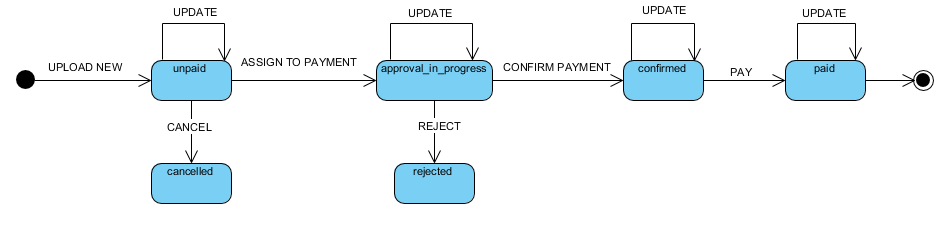
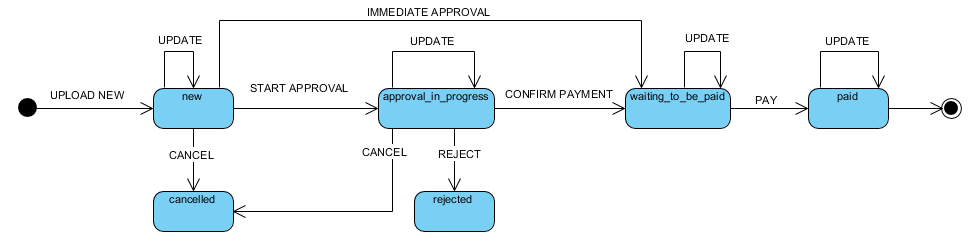
Updated Payable-management and state-machine diagram

Changed region(s): [[0.0, 0.0303, 1.0, 0.9394], [0.673, 0.0303, 0.7342, 0.0606]]

diff --git a/docs/g.payable-management.md b/docs/g.payable-management.md
@@ -13,11 +13,9 @@ This page explains the payables workflow and shows you how to implement it.
 
 ## How it works
 
-The following figure shows the payables workflow:
+Each payable in Monite goes through the following life cycle (in UML state-machine notation):
 
-TBD.
-
-
+![](../assets/images/payable-states.png)
 
 ## What you need
 
@@ -39,19 +37,33 @@ TBD: is this information storied in a database at the same time?
 
 To upload a payable: 
 
-1. Retrieve an access token for the entity with a call to:
-
-   `GET /partner api/api_users/v1/entities/{entity_id}/access`
+1. Using partner-level access token retrieve an access token for the entity with a call to `GET /partner api/api_users/v1/entities/{entity_id}/access`:
+```curl
+curl --location --request POST 'https://api.dev.monite.dev/partner-api/api_users/v1/entities/c0f6bbfb-0695-45a6-8cba-759ad35a051a/access' \
+--header 'x-api-key: au-your0000-part-ner0-leve-access0token'
+```
+The successful response code 200 OK contains the entity token:
+```json
+{
+    "token": "en-your0000-enti-ty00-leve-access0token",
+    "expiration_in": "2025-11-25T05:30:06.804869+00:00"
+}
+```
 
 2. Submit the payable with a call to:
    - For an entity:   `POST /partner-api/entities/v1/payables`
    - For an entity user: `POST /partner-api/entities_users/v1/payables`
-
+```curl
+curl --location --request POST 'https://api.dev.monite.dev/partner-api/entities/v1/payables' \
+--header 'Content-Type: multipart/form-data' \
+--header 'x-api-key: en-your0000-enti-ty00-leve-access0token' \
+--form 'file=@"BillExample.jpg"'
+```
    This call submits and analyses the payable uploaded. For example, the return parameters when you upload the [bill example](../assets/images/BillExample.jpg) are:
 
 ```json
 {
-    "id": "c38552fe-3a20-47cf-baff-646d7107cfd8",
+    "id": "aa314fdd-a763-4920-a8c8-6285fc1745c0",
     "entity_id": "b0ff50d0-cdea-42fd-9461-1b3799b65bcf",
     "status": "new",
     "source_of_payable_data": "ocr",
@@ -66,8 +78,8 @@ To upload a payable:
     "payable_origin": "upload",
     "was_created_by_external_user_name": null,
     "was_created_by_external_user_id": null,
-    "created_at": "2021-11-17T15:05:54.631508+00:00",
-    "updated_at": "2021-11-17T15:05:54.631524+00:00",
+    "created_at": "2021-11-25T05:10:35.211432+00:00",
+    "updated_at": "2021-11-25T05:10:35.211447+00:00",
     "file": {
         "file_type": "ocr-files",
         "name": "file",
@@ -84,24 +96,7 @@ To upload a payable:
 For more information about these fields, see [payable schema](c2NoOjI3NzgxOTUx-payable-response-schema).
 
 
-### 2. Edit a payable
-
-There are situations where information submitted in a payable needs to be added to or edited. Once a payable is uploaded, entity and entity users can easily update the information extracted from the payable and make changes before the payable in Monite is submitted.  Monite also enables entities and entity users too edit any section information which has been asked by the finance admin. 
-
-To edit an update a payable:
-
-1. Retrieve the payable from Monite:
-
-   TBD: which API do we call here?
-
-3. Update information in the payable downloaded from Monite.
-4. Publish changes to the payable:
-    - Entity: `PUT /partner-api/entities/v1/payables/{bill_id}`
-    - Entity user: `PUT /partner-api/entities_user/v1/payables/{bill_id}`
- 
-
-
-### 3. View all payables
+### 2. View all payables
 
 When entity and entity users have uploaded some payables, they can easily view all payables so far uploaded. To allow the right level of access to the authorized users, Monite allows certain type of entity users to view the uploads without allowing the unlimited control over the payable.
 
@@ -111,15 +106,19 @@ To view all payables, call:
 
 - entity: `GET /partner-api/entities/v1/payables`
 - entity user:`GET /partner-api/entities_users/v1/payables`
+```curl
+curl --location --request GET 'https://api.dev.monite.dev/partner-api/entities/v1/payables' \
+--header 'x-api-key: en-your0000-enti-ty00-leve-access0token'
+```
 
 Monite returns a paged series of all payables the entity has access to. For example: 
 ```json
 {
     "data": [
         {
-            "id": "f53f66ee-8ef8-4319-b70b-fcd8e0a6e07f",
+            "id": "aa314fdd-a763-4920-a8c8-6285fc1745c0",
             "entity_id": "b0ff50d0-cdea-42fd-9461-1b3799b65bcf",
-            "status": "unpaid",
+            "status": "new",
             "source_of_payable_data": "ocr",
             "currency": "EUR",
             "amount": 11900,
@@ -128,12 +127,12 @@ Monite returns a paged series of all payables the entity has access to. For exam
             "issued_at": "2021-11-11",
             "counterpart_bank_id": null,
             "counterpart_account_id": null,
-            "counterpart_name": "B'H From SupplierName",
+            "counterpart_name": "SupplierName",
             "payable_origin": "upload",
             "was_created_by_external_user_name": null,
             "was_created_by_external_user_id": null,
-            "created_at": "2021-11-11T13:56:07.599476+00:00",
-            "updated_at": "2021-11-11T13:56:07.599504+00:00"
+            "created_at": "2021-11-25T05:10:35.211432+00:00",
+            "updated_at": "2021-11-25T05:10:35.211447+00:00"
         }
     ],
     "prev_page": null,
@@ -142,24 +141,88 @@ Monite returns a paged series of all payables the entity has access to. For exam
 ```
 where data is an array of uploaded paybles and prev_page and next_page are [pagination tokens](y.filterings-sorting-pagination.md).
 
+### 3. Edit a payable
+
+There are situations where information submitted in a payable needs to be added to or edited. Once a payable is uploaded, entity and entity users can easily update the information extracted from the payable and make changes before the payable in Monite is submitted.  Monite also enables entities and entity users too edit any section information which has been asked by the finance admin. 
+
+To edit an update a payable:
+
+1. Retrieve the payable from Monite:
+
+- entity: `GET /partner-api/entities/v1/payables/{payable_id}`
+- entity user:`GET /partner-api/entities_users/v1/{payable_id}`
+```curl
+curl --location --request GET 'https://api.dev.monite.dev/partner-api/entities/v1/payables/<Payable Id>' \
+--header 'x-api-key: en-your0000-enti-ty00-leve-access0token'
+```
+The successful response code 200 OK contains the [payable attributes](c2NoOjI3NzgxOTUx-payable-response-schema)
+
+
+2. Update information in the payable downloaded from Monite.
+3. Publish changes to the payable :
+- Entity: `PUT /partner-api/entities/v1/payables/{payable_id}`
+- Entity user: `PUT /partner-api/entities_user/v1/payables/{payable_id}`
+
+For example, to update Bill amount and Due Date send the request:
+```curl
+curl --location --request PUT 'https://api.dev.monite.dev/partner-api/entities/v1/payables/<Payable Id>' \
+--header 'Content-Type: application/json' \
+--header 'x-api-key: en-your0000-enti-ty00-leve-access0token' \
+--data-raw '{
+    "amount": 238,
+    "due_date": "2021-12-12"
+}'
+```
+
 ### 4. Manage payables
 
-Upon successfully uploading a payable, the next step involves evaluation, assigning and management of these. With the robustness of our system, we provide a full set of capability for managing these
+After uploading, payables undergo 2 approval stages before finally clearing for payment:
+- approval_in_progress
+- waiting_to_be_paid 
 
-After uploading, payables undergo various approval stages before finally clearing for payment, the approval stages for a payment are: 
-
-![](../assets/images/payable-states.png)
-
+Depending on [payable status](#how-it-works) you may fulfil different operation with it:
 - *Delete an Upload* - monite enables financial team members to remove or delete a bill from the system. The entity can delete any specific upload. This marks the bill as archived in the system.
 
    - entity : `DELETE /partner-api/entities/v1/payables/{payable_id}`,
    - entity user: `DELETE/partner-api/entities_users/v1/payables/{payable_id}`
 
-- *Cancel Payable*: when the end users want to stop an upload, cancel by using `PUT /partner-api/entities/v1/payables/{payable_id}/cancel`API from their system.
-- *Assign To Payment*: Once the bill has been uploaded and recognized, its approval for a payments starts with the `PUT /partner-api/entities/v1/payables/{payable_id}/assign_to_payment`API
-- *Confirm Payment*: To finally approve the bill for payment call the `PUT /partner-api/entities/v1/payables/{payable_id}/confirm_payment_operation` API
-- *Reject Payable*: If the approving authority finds any mismatch or discrepancies in the upload, they can simply decline the bill by using the `PUT /partner-api/entities/v1/payables/{payable_id}/decline` API from their system.
-- *Pay*: As soon as the bill/upload has been approved and assigned for payment, you can change its status to "paid" by calling the `PUT /partner-api/entities/v1/payables/{payable_id}/pay` API.
+- *Cancel Payable*: when the end users want to stop an upload, cancel by using `PUT /partner-api/entities/v1/payables/{payable_id}/cancel`API from their system:
+```curl
+curl --location --request PUT 'https://api.dev.monite.dev/partner-api/entities/v1/payables/aa314fdd-a763-4920-a8c8-6285fc1745c0/cancel' \
+--header 'x-api-key: en-your0000-enti-ty00-leve-access0token'
+```
+Successful response 200 OK contains updated paybable's status:
+`"status": "cancelled"`
+- *Start Approval*: Once the bill has been uploaded and recognized, its approval for a payments starts with the `PUT /partner-api/entities/v1/payables/{payable_id}/assign_to_payment`API call:
+```curl
+curl --location --request PUT 'https://api.dev.monite.dev/partner-api/entities/v1/payables/aa314fdd-a763-4920-a8c8-6285fc1745c0/start_approve' \
+--header 'x-api-key: en-your0000-enti-ty00-leve-access0token'
+```
+Successful response 200 OK contains updated paybable's status:
+`"status": "approve_in_progress"`
+
+- *Confirm Payment*: To finally approve the bill for payment call the `PUT /partner-api/entities/v1/payables/{payable_id}/approve_payment_operation` API:
+```curl
+curl --location --request PUT 'https://api.dev.monite.dev/partner-api/entities/v1/payables/aa314fdd-a763-4920-a8c8-6285fc1745c0/approve_payment_operation' \
+--header 'x-api-key: en-your0000-enti-ty00-leve-access0token'
+```
+Successful response 200 OK contains updated paybable's status: `"status": "waiting_to_be_paid"`
+
+- *Reject Payable*: If the approving authority finds any mismatch or discrepancies in the upload, they can simply decline the bill by using the `PUT /partner-api/entities/v1/payables/{payable_id}/reject` API from their system:
+```curl
+curl --location --request PUT 'https://api.dev.monite.dev/partner-api/entities/v1/payables/aa314fdd-a763-4920-a8c8-6285fc1745c0/reject' \
+--header 'x-api-key: en-your0000-enti-ty00-leve-access0token'
+```
+Successful response 200 OK contains updated paybable's status:
+`"status": "rejected"`
+- *Pay*: Finally, As soon as the bill/upload has been approved and assigned for payment, you can change its status to "paid" by calling the `PUT /partner-api/entities/v1/payables/{payable_id}/pay` API:
+```curl
+curl --location --request PUT 'https://api.dev.monite.dev/partner-api/entities/v1/payables/aa314fdd-a763-4920-a8c8-6285fc1745c0/pay' \
+--header 'x-api-key: en-your0000-enti-ty00-leve-access0token'
+```
+Successful response 200 OK contains updated paybable's status: `"status": "paid"`. 
+
+Currently partial payments are not supported.
 
 ## Reference
 
